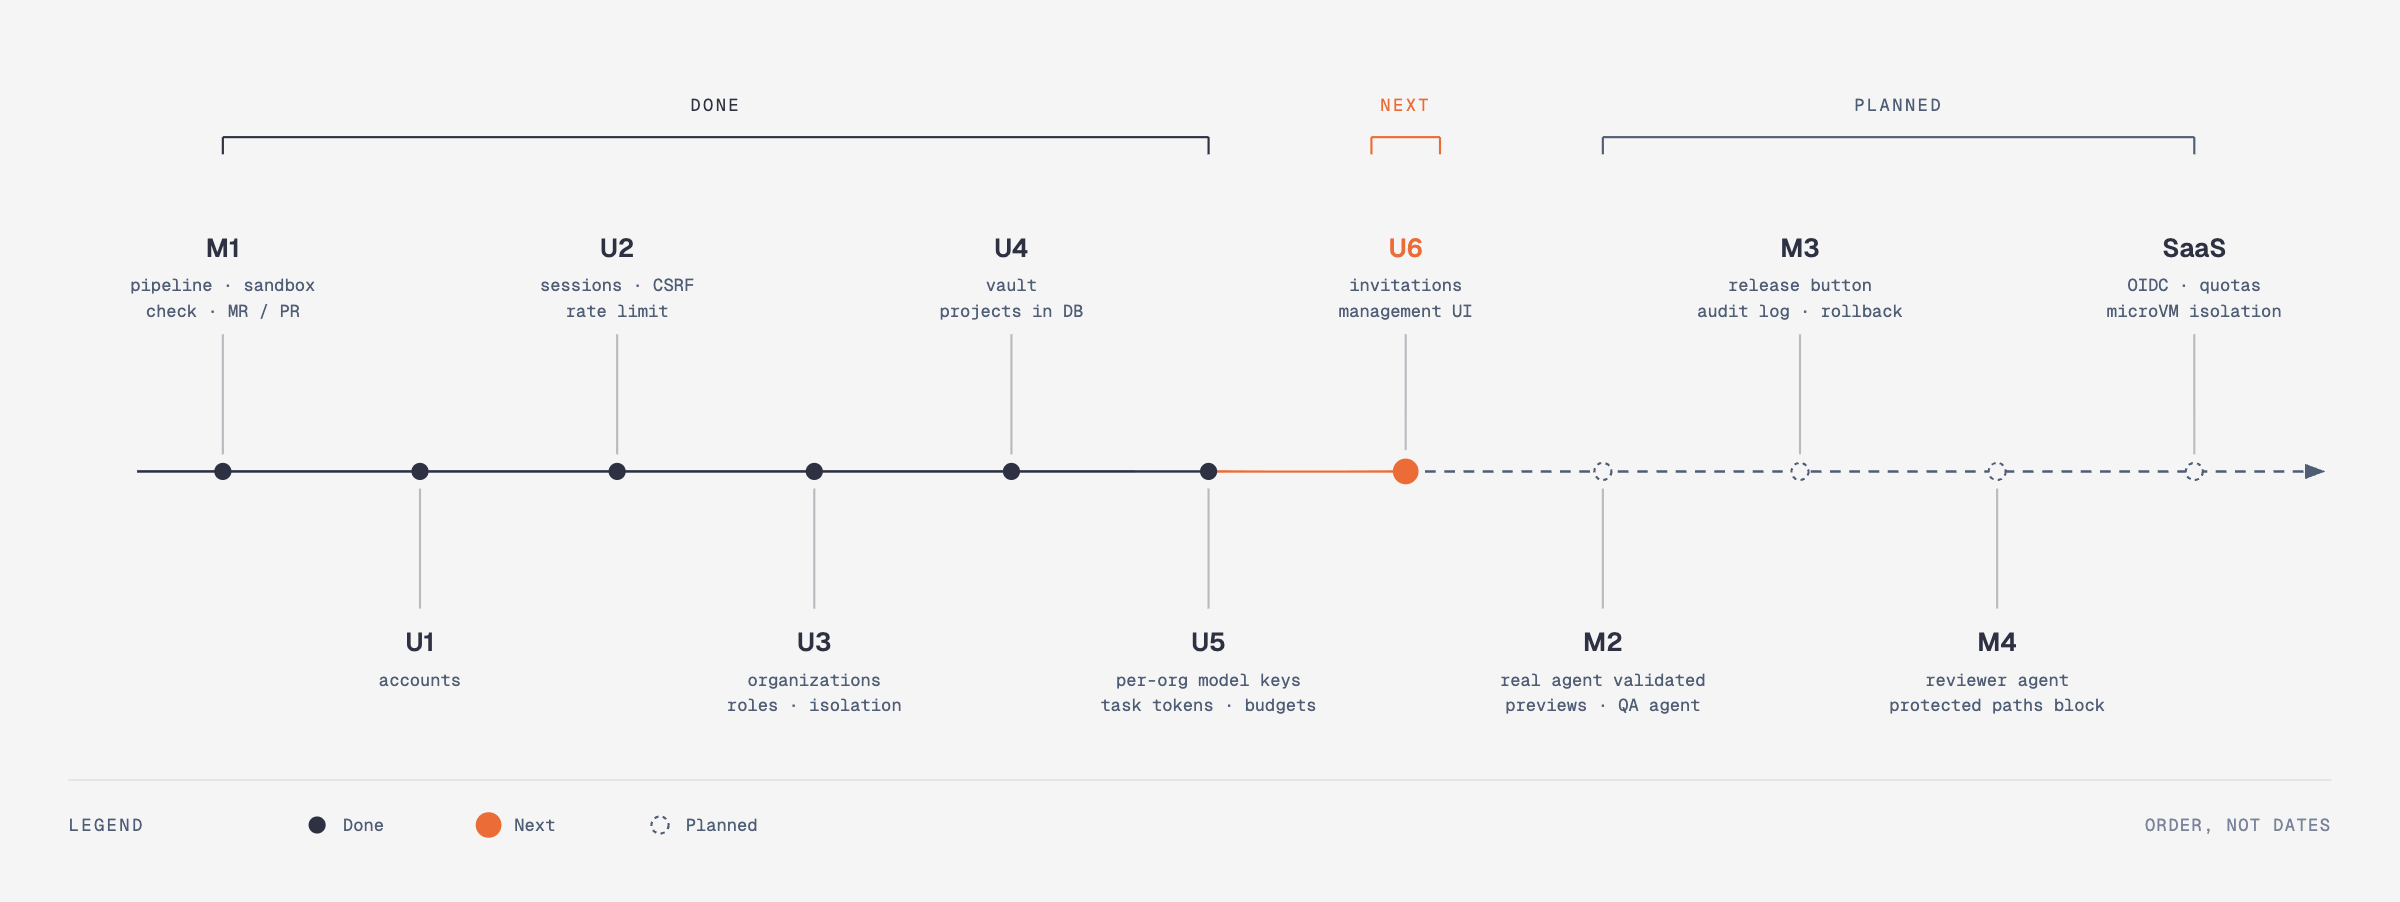
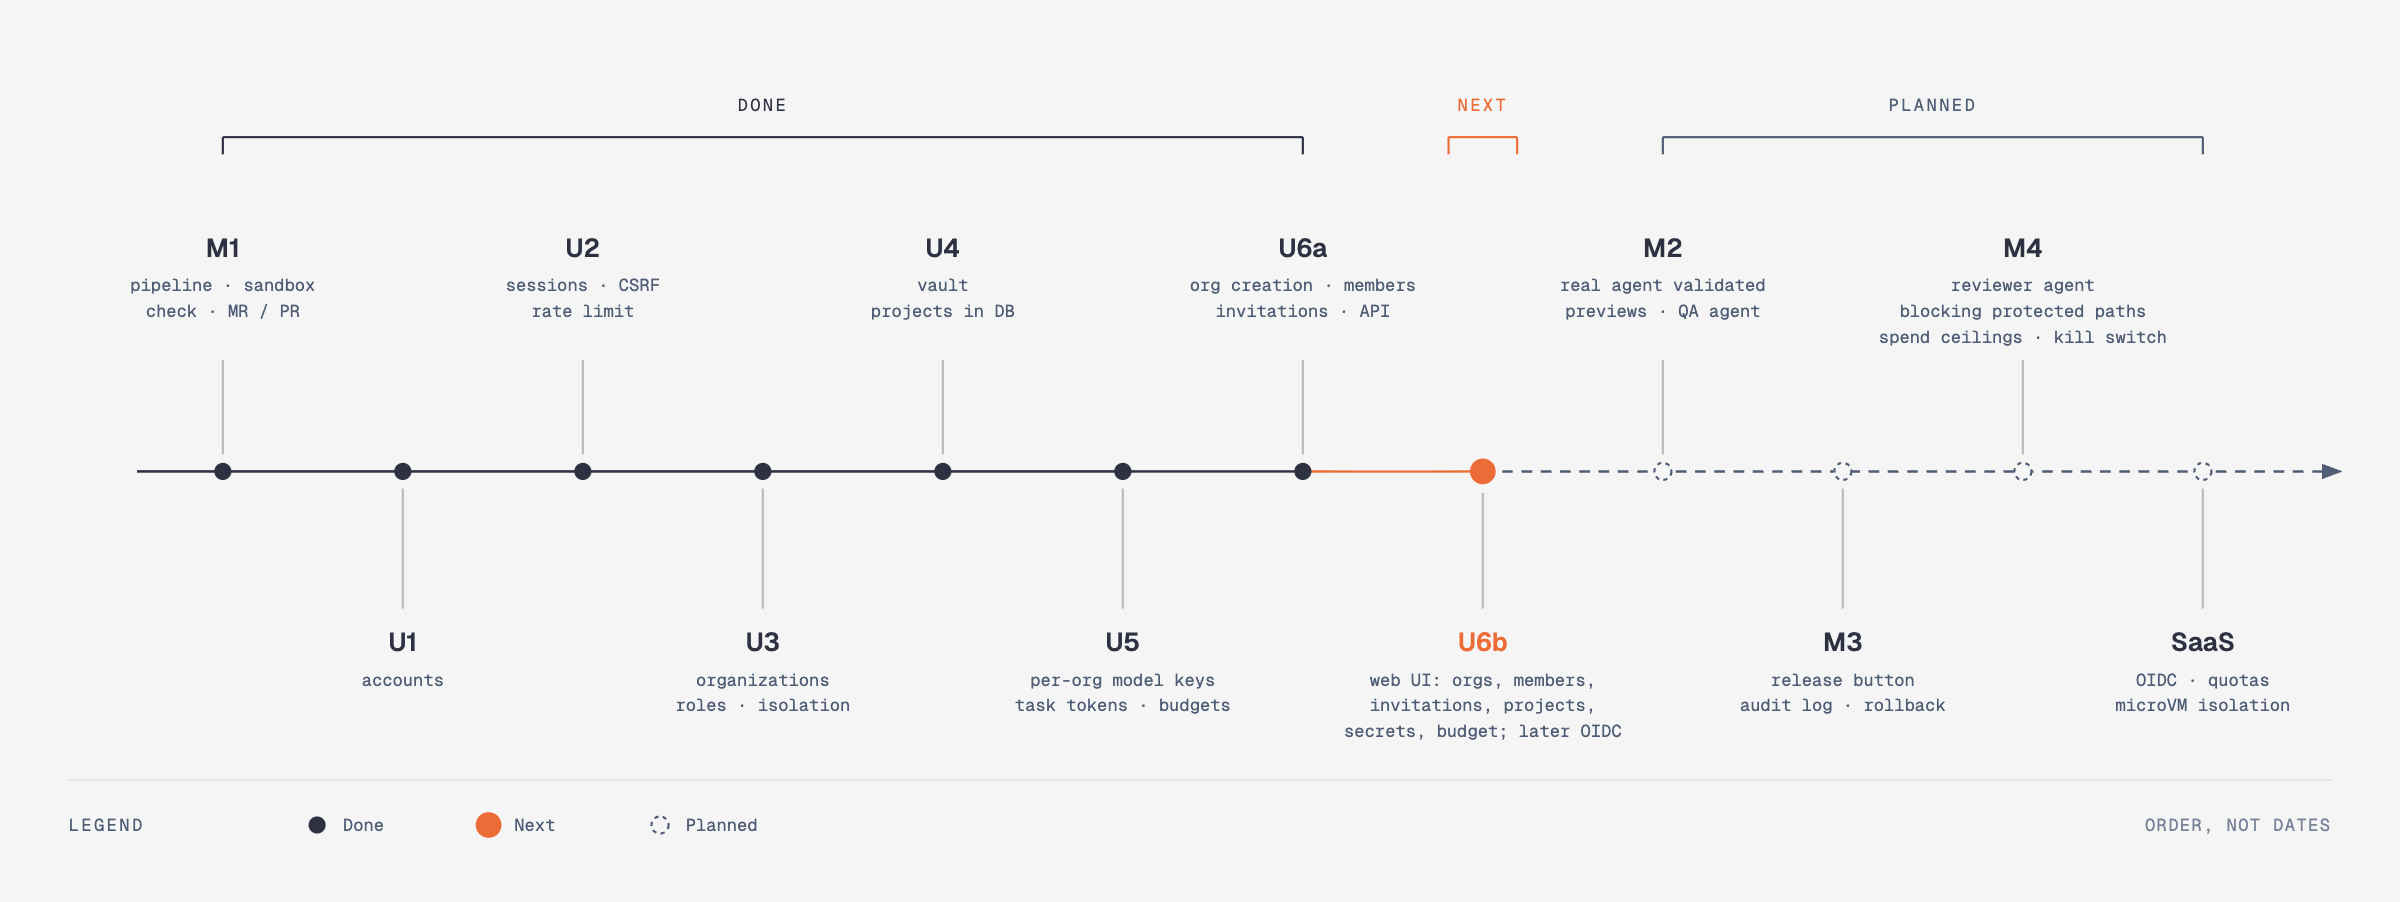
docs: update the roadmap diagram for U6a and U6b

diff --git a/docs/diagrams/roadmap.html b/docs/diagrams/roadmap.html
@@ -61,72 +61,79 @@
     <!-- Replace [diagram-slug] with a unique slug for this diagram before export. -->
     <svg viewBox="0 0 1120 420" xmlns="http://www.w3.org/2000/svg" role="img" aria-labelledby="roadmap-title roadmap-desc">
       <title id="roadmap-title">Atelier roadmap</title>
-      <desc id="roadmap-desc">Timeline of eleven milestones in order: six done (M1, U1 to U5), one next (U6) and four planned (M2, M3, M4, SaaS).</desc>
+      <desc id="roadmap-desc">Timeline of twelve milestones in order: seven done (M1, U1 to U5, U6a), one next (U6b) and four planned (M2, M3, M4, SaaS).</desc>
       <defs>
         <marker id="arrow" markerWidth="8" markerHeight="6" refX="7" refY="3" orient="auto"><polygon points="0 0, 8 3, 0 6" fill="#4f5d75"/></marker>
       </defs>
       <rect width="100%" height="100%" fill="#f5f5f5"/>
-      <line x1="104" y1="64" x2="564" y2="64" stroke="#2d3142" stroke-width="1"/><line x1="104" y1="64" x2="104" y2="72" stroke="#2d3142" stroke-width="1"/><line x1="564" y1="64" x2="564" y2="72" stroke="#2d3142" stroke-width="1"/><text x="334" y="52" fill="#2d3142" font-size="8" font-family="'Geist Mono', monospace" text-anchor="middle" letter-spacing="0.14em">DONE</text>
-<line x1="640" y1="64" x2="672" y2="64" stroke="#eb6c36" stroke-width="1"/><line x1="640" y1="64" x2="640" y2="72" stroke="#eb6c36" stroke-width="1"/><line x1="672" y1="64" x2="672" y2="72" stroke="#eb6c36" stroke-width="1"/><text x="656" y="52" fill="#eb6c36" font-size="8" font-family="'Geist Mono', monospace" text-anchor="middle" letter-spacing="0.14em">NEXT</text>
-<line x1="748" y1="64" x2="1024" y2="64" stroke="#4f5d75" stroke-width="1"/><line x1="748" y1="64" x2="748" y2="72" stroke="#4f5d75" stroke-width="1"/><line x1="1024" y1="64" x2="1024" y2="72" stroke="#4f5d75" stroke-width="1"/><text x="886" y="52" fill="#4f5d75" font-size="8" font-family="'Geist Mono', monospace" text-anchor="middle" letter-spacing="0.14em">PLANNED</text>
+      <line x1="104" y1="64" x2="608" y2="64" stroke="#2d3142" stroke-width="1"/><line x1="104" y1="64" x2="104" y2="72" stroke="#2d3142" stroke-width="1"/><line x1="608" y1="64" x2="608" y2="72" stroke="#2d3142" stroke-width="1"/><text x="356" y="52" fill="#2d3142" font-size="8" font-family="'Geist Mono', monospace" text-anchor="middle" letter-spacing="0.14em">DONE</text>
+<line x1="676" y1="64" x2="708" y2="64" stroke="#eb6c36" stroke-width="1"/><line x1="676" y1="64" x2="676" y2="72" stroke="#eb6c36" stroke-width="1"/><line x1="708" y1="64" x2="708" y2="72" stroke="#eb6c36" stroke-width="1"/><text x="692" y="52" fill="#eb6c36" font-size="8" font-family="'Geist Mono', monospace" text-anchor="middle" letter-spacing="0.14em">NEXT</text>
+<line x1="776" y1="64" x2="1028" y2="64" stroke="#4f5d75" stroke-width="1"/><line x1="776" y1="64" x2="776" y2="72" stroke="#4f5d75" stroke-width="1"/><line x1="1028" y1="64" x2="1028" y2="72" stroke="#4f5d75" stroke-width="1"/><text x="902" y="52" fill="#4f5d75" font-size="8" font-family="'Geist Mono', monospace" text-anchor="middle" letter-spacing="0.14em">PLANNED</text>
 
-      <line x1="64" y1="220" x2="564" y2="220" stroke="#2d3142" stroke-width="1.2"/>
-      <line x1="564" y1="220" x2="656" y2="220" stroke="#eb6c36" stroke-width="1.2"/>
-      <line x1="656" y1="220" x2="1084" y2="220" stroke="#4f5d75" stroke-width="1.2" stroke-dasharray="5,4" marker-end="url(#arrow)"/>
-      <line x1="104" y1="156" x2="104" y2="212" stroke="rgba(45,49,66,0.30)" stroke-width="1"/>
-<line x1="196" y1="228" x2="196" y2="284" stroke="rgba(45,49,66,0.30)" stroke-width="1"/>
-<line x1="288" y1="156" x2="288" y2="212" stroke="rgba(45,49,66,0.30)" stroke-width="1"/>
-<line x1="380" y1="228" x2="380" y2="284" stroke="rgba(45,49,66,0.30)" stroke-width="1"/>
-<line x1="472" y1="156" x2="472" y2="212" stroke="rgba(45,49,66,0.30)" stroke-width="1"/>
-<line x1="564" y1="228" x2="564" y2="284" stroke="rgba(45,49,66,0.30)" stroke-width="1"/>
-<line x1="656" y1="156" x2="656" y2="210" stroke="rgba(45,49,66,0.30)" stroke-width="1"/>
-<line x1="748" y1="228" x2="748" y2="284" stroke="rgba(45,49,66,0.30)" stroke-width="1"/>
-<line x1="840" y1="156" x2="840" y2="212" stroke="rgba(45,49,66,0.30)" stroke-width="1"/>
-<line x1="932" y1="228" x2="932" y2="284" stroke="rgba(45,49,66,0.30)" stroke-width="1"/>
-<line x1="1024" y1="156" x2="1024" y2="212" stroke="rgba(45,49,66,0.30)" stroke-width="1"/>
+      <line x1="64" y1="220" x2="608" y2="220" stroke="#2d3142" stroke-width="1.2"/>
+      <line x1="608" y1="220" x2="692" y2="220" stroke="#eb6c36" stroke-width="1.2"/>
+      <line x1="692" y1="220" x2="1092" y2="220" stroke="#4f5d75" stroke-width="1.2" stroke-dasharray="5,4" marker-end="url(#arrow)"/>
+      <line x1="104" y1="168" x2="104" y2="212" stroke="rgba(45,49,66,0.30)" stroke-width="1"/>
+<line x1="188" y1="228" x2="188" y2="284" stroke="rgba(45,49,66,0.30)" stroke-width="1"/>
+<line x1="272" y1="168" x2="272" y2="212" stroke="rgba(45,49,66,0.30)" stroke-width="1"/>
+<line x1="356" y1="228" x2="356" y2="284" stroke="rgba(45,49,66,0.30)" stroke-width="1"/>
+<line x1="440" y1="168" x2="440" y2="212" stroke="rgba(45,49,66,0.30)" stroke-width="1"/>
+<line x1="524" y1="228" x2="524" y2="284" stroke="rgba(45,49,66,0.30)" stroke-width="1"/>
+<line x1="608" y1="168" x2="608" y2="212" stroke="rgba(45,49,66,0.30)" stroke-width="1"/>
+<line x1="692" y1="230" x2="692" y2="284" stroke="rgba(45,49,66,0.30)" stroke-width="1"/>
+<line x1="776" y1="168" x2="776" y2="212" stroke="rgba(45,49,66,0.30)" stroke-width="1"/>
+<line x1="860" y1="228" x2="860" y2="284" stroke="rgba(45,49,66,0.30)" stroke-width="1"/>
+<line x1="944" y1="168" x2="944" y2="212" stroke="rgba(45,49,66,0.30)" stroke-width="1"/>
+<line x1="1028" y1="228" x2="1028" y2="284" stroke="rgba(45,49,66,0.30)" stroke-width="1"/>
 <text x="104" y="120" fill="#2d3142" font-size="12" font-weight="600" font-family="'Geist', sans-serif" text-anchor="middle">M1</text>
 <text x="104" y="136" fill="#4f5d75" font-size="8" font-family="'Geist Mono', monospace" text-anchor="middle">pipeline · sandbox</text>
 <text x="104" y="148" fill="#4f5d75" font-size="8" font-family="'Geist Mono', monospace" text-anchor="middle">check · MR / PR</text>
 <circle cx="104" cy="220" r="4" fill="#2d3142"/>
-<text x="196" y="304" fill="#2d3142" font-size="12" font-weight="600" font-family="'Geist', sans-serif" text-anchor="middle">U1</text>
-<text x="196" y="320" fill="#4f5d75" font-size="8" font-family="'Geist Mono', monospace" text-anchor="middle">accounts</text>
-<circle cx="196" cy="220" r="4" fill="#2d3142"/>
-<text x="288" y="120" fill="#2d3142" font-size="12" font-weight="600" font-family="'Geist', sans-serif" text-anchor="middle">U2</text>
-<text x="288" y="136" fill="#4f5d75" font-size="8" font-family="'Geist Mono', monospace" text-anchor="middle">sessions · CSRF</text>
-<text x="288" y="148" fill="#4f5d75" font-size="8" font-family="'Geist Mono', monospace" text-anchor="middle">rate limit</text>
-<circle cx="288" cy="220" r="4" fill="#2d3142"/>
-<text x="380" y="304" fill="#2d3142" font-size="12" font-weight="600" font-family="'Geist', sans-serif" text-anchor="middle">U3</text>
-<text x="380" y="320" fill="#4f5d75" font-size="8" font-family="'Geist Mono', monospace" text-anchor="middle">organizations</text>
-<text x="380" y="332" fill="#4f5d75" font-size="8" font-family="'Geist Mono', monospace" text-anchor="middle">roles · isolation</text>
-<circle cx="380" cy="220" r="4" fill="#2d3142"/>
-<text x="472" y="120" fill="#2d3142" font-size="12" font-weight="600" font-family="'Geist', sans-serif" text-anchor="middle">U4</text>
-<text x="472" y="136" fill="#4f5d75" font-size="8" font-family="'Geist Mono', monospace" text-anchor="middle">vault</text>
-<text x="472" y="148" fill="#4f5d75" font-size="8" font-family="'Geist Mono', monospace" text-anchor="middle">projects in DB</text>
-<circle cx="472" cy="220" r="4" fill="#2d3142"/>
-<text x="564" y="304" fill="#2d3142" font-size="12" font-weight="600" font-family="'Geist', sans-serif" text-anchor="middle">U5</text>
-<text x="564" y="320" fill="#4f5d75" font-size="8" font-family="'Geist Mono', monospace" text-anchor="middle">per-org model keys</text>
-<text x="564" y="332" fill="#4f5d75" font-size="8" font-family="'Geist Mono', monospace" text-anchor="middle">task tokens · budgets</text>
-<circle cx="564" cy="220" r="4" fill="#2d3142"/>
-<text x="656" y="120" fill="#eb6c36" font-size="12" font-weight="600" font-family="'Geist', sans-serif" text-anchor="middle">U6</text>
-<text x="656" y="136" fill="#4f5d75" font-size="8" font-family="'Geist Mono', monospace" text-anchor="middle">invitations</text>
-<text x="656" y="148" fill="#4f5d75" font-size="8" font-family="'Geist Mono', monospace" text-anchor="middle">management UI</text>
-<circle cx="656" cy="220" r="6" fill="#eb6c36"/>
-<text x="748" y="304" fill="#2d3142" font-size="12" font-weight="600" font-family="'Geist', sans-serif" text-anchor="middle">M2</text>
-<text x="748" y="320" fill="#4f5d75" font-size="8" font-family="'Geist Mono', monospace" text-anchor="middle">real agent validated</text>
-<text x="748" y="332" fill="#4f5d75" font-size="8" font-family="'Geist Mono', monospace" text-anchor="middle">previews · QA agent</text>
-<circle cx="748" cy="220" r="4" fill="#f5f5f5" stroke="#4f5d75" stroke-width="1" stroke-dasharray="2,2"/>
-<text x="840" y="120" fill="#2d3142" font-size="12" font-weight="600" font-family="'Geist', sans-serif" text-anchor="middle">M3</text>
-<text x="840" y="136" fill="#4f5d75" font-size="8" font-family="'Geist Mono', monospace" text-anchor="middle">release button</text>
-<text x="840" y="148" fill="#4f5d75" font-size="8" font-family="'Geist Mono', monospace" text-anchor="middle">audit log · rollback</text>
-<circle cx="840" cy="220" r="4" fill="#f5f5f5" stroke="#4f5d75" stroke-width="1" stroke-dasharray="2,2"/>
-<text x="932" y="304" fill="#2d3142" font-size="12" font-weight="600" font-family="'Geist', sans-serif" text-anchor="middle">M4</text>
-<text x="932" y="320" fill="#4f5d75" font-size="8" font-family="'Geist Mono', monospace" text-anchor="middle">reviewer agent</text>
-<text x="932" y="332" fill="#4f5d75" font-size="8" font-family="'Geist Mono', monospace" text-anchor="middle">protected paths block</text>
-<circle cx="932" cy="220" r="4" fill="#f5f5f5" stroke="#4f5d75" stroke-width="1" stroke-dasharray="2,2"/>
-<text x="1024" y="120" fill="#2d3142" font-size="12" font-weight="600" font-family="'Geist', sans-serif" text-anchor="middle">SaaS</text>
-<text x="1024" y="136" fill="#4f5d75" font-size="8" font-family="'Geist Mono', monospace" text-anchor="middle">OIDC · quotas</text>
-<text x="1024" y="148" fill="#4f5d75" font-size="8" font-family="'Geist Mono', monospace" text-anchor="middle">microVM isolation</text>
-<circle cx="1024" cy="220" r="4" fill="#f5f5f5" stroke="#4f5d75" stroke-width="1" stroke-dasharray="2,2"/>
+<text x="188" y="304" fill="#2d3142" font-size="12" font-weight="600" font-family="'Geist', sans-serif" text-anchor="middle">U1</text>
+<text x="188" y="320" fill="#4f5d75" font-size="8" font-family="'Geist Mono', monospace" text-anchor="middle">accounts</text>
+<circle cx="188" cy="220" r="4" fill="#2d3142"/>
+<text x="272" y="120" fill="#2d3142" font-size="12" font-weight="600" font-family="'Geist', sans-serif" text-anchor="middle">U2</text>
+<text x="272" y="136" fill="#4f5d75" font-size="8" font-family="'Geist Mono', monospace" text-anchor="middle">sessions · CSRF</text>
+<text x="272" y="148" fill="#4f5d75" font-size="8" font-family="'Geist Mono', monospace" text-anchor="middle">rate limit</text>
+<circle cx="272" cy="220" r="4" fill="#2d3142"/>
+<text x="356" y="304" fill="#2d3142" font-size="12" font-weight="600" font-family="'Geist', sans-serif" text-anchor="middle">U3</text>
+<text x="356" y="320" fill="#4f5d75" font-size="8" font-family="'Geist Mono', monospace" text-anchor="middle">organizations</text>
+<text x="356" y="332" fill="#4f5d75" font-size="8" font-family="'Geist Mono', monospace" text-anchor="middle">roles · isolation</text>
+<circle cx="356" cy="220" r="4" fill="#2d3142"/>
+<text x="440" y="120" fill="#2d3142" font-size="12" font-weight="600" font-family="'Geist', sans-serif" text-anchor="middle">U4</text>
+<text x="440" y="136" fill="#4f5d75" font-size="8" font-family="'Geist Mono', monospace" text-anchor="middle">vault</text>
+<text x="440" y="148" fill="#4f5d75" font-size="8" font-family="'Geist Mono', monospace" text-anchor="middle">projects in DB</text>
+<circle cx="440" cy="220" r="4" fill="#2d3142"/>
+<text x="524" y="304" fill="#2d3142" font-size="12" font-weight="600" font-family="'Geist', sans-serif" text-anchor="middle">U5</text>
+<text x="524" y="320" fill="#4f5d75" font-size="8" font-family="'Geist Mono', monospace" text-anchor="middle">per-org model keys</text>
+<text x="524" y="332" fill="#4f5d75" font-size="8" font-family="'Geist Mono', monospace" text-anchor="middle">task tokens · budgets</text>
+<circle cx="524" cy="220" r="4" fill="#2d3142"/>
+<text x="608" y="120" fill="#2d3142" font-size="12" font-weight="600" font-family="'Geist', sans-serif" text-anchor="middle">U6a</text>
+<text x="608" y="136" fill="#4f5d75" font-size="8" font-family="'Geist Mono', monospace" text-anchor="middle">org creation · members</text>
+<text x="608" y="148" fill="#4f5d75" font-size="8" font-family="'Geist Mono', monospace" text-anchor="middle">invitations · API</text>
+<circle cx="608" cy="220" r="4" fill="#2d3142"/>
+<text x="692" y="304" fill="#eb6c36" font-size="12" font-weight="600" font-family="'Geist', sans-serif" text-anchor="middle">U6b</text>
+<text x="692" y="320" fill="#4f5d75" font-size="8" font-family="'Geist Mono', monospace" text-anchor="middle">web UI: orgs, members,</text>
+<text x="692" y="332" fill="#4f5d75" font-size="8" font-family="'Geist Mono', monospace" text-anchor="middle">invitations, projects,</text>
+<text x="692" y="344" fill="#4f5d75" font-size="8" font-family="'Geist Mono', monospace" text-anchor="middle">secrets, budget; later OIDC</text>
+<circle cx="692" cy="220" r="6" fill="#eb6c36"/>
+<text x="776" y="120" fill="#2d3142" font-size="12" font-weight="600" font-family="'Geist', sans-serif" text-anchor="middle">M2</text>
+<text x="776" y="136" fill="#4f5d75" font-size="8" font-family="'Geist Mono', monospace" text-anchor="middle">real agent validated</text>
+<text x="776" y="148" fill="#4f5d75" font-size="8" font-family="'Geist Mono', monospace" text-anchor="middle">previews · QA agent</text>
+<circle cx="776" cy="220" r="4" fill="#f5f5f5" stroke="#4f5d75" stroke-width="1" stroke-dasharray="2,2"/>
+<text x="860" y="304" fill="#2d3142" font-size="12" font-weight="600" font-family="'Geist', sans-serif" text-anchor="middle">M3</text>
+<text x="860" y="320" fill="#4f5d75" font-size="8" font-family="'Geist Mono', monospace" text-anchor="middle">release button</text>
+<text x="860" y="332" fill="#4f5d75" font-size="8" font-family="'Geist Mono', monospace" text-anchor="middle">audit log · rollback</text>
+<circle cx="860" cy="220" r="4" fill="#f5f5f5" stroke="#4f5d75" stroke-width="1" stroke-dasharray="2,2"/>
+<text x="944" y="120" fill="#2d3142" font-size="12" font-weight="600" font-family="'Geist', sans-serif" text-anchor="middle">M4</text>
+<text x="944" y="136" fill="#4f5d75" font-size="8" font-family="'Geist Mono', monospace" text-anchor="middle">reviewer agent</text>
+<text x="944" y="148" fill="#4f5d75" font-size="8" font-family="'Geist Mono', monospace" text-anchor="middle">blocking protected paths</text>
+<text x="944" y="160" fill="#4f5d75" font-size="8" font-family="'Geist Mono', monospace" text-anchor="middle">spend ceilings · kill switch</text>
+<circle cx="944" cy="220" r="4" fill="#f5f5f5" stroke="#4f5d75" stroke-width="1" stroke-dasharray="2,2"/>
+<text x="1028" y="304" fill="#2d3142" font-size="12" font-weight="600" font-family="'Geist', sans-serif" text-anchor="middle">SaaS</text>
+<text x="1028" y="320" fill="#4f5d75" font-size="8" font-family="'Geist Mono', monospace" text-anchor="middle">OIDC · quotas</text>
+<text x="1028" y="332" fill="#4f5d75" font-size="8" font-family="'Geist Mono', monospace" text-anchor="middle">microVM isolation</text>
+<circle cx="1028" cy="220" r="4" fill="#f5f5f5" stroke="#4f5d75" stroke-width="1" stroke-dasharray="2,2"/>
 
       <line x1="32" y1="364" x2="1088" y2="364" stroke="rgba(45,49,66,0.10)" stroke-width="0.8"/>
       <text x="32" y="388" fill="#4f5d75" font-size="8" font-family="'Geist Mono', monospace" letter-spacing="0.14em">LEGEND</text>
